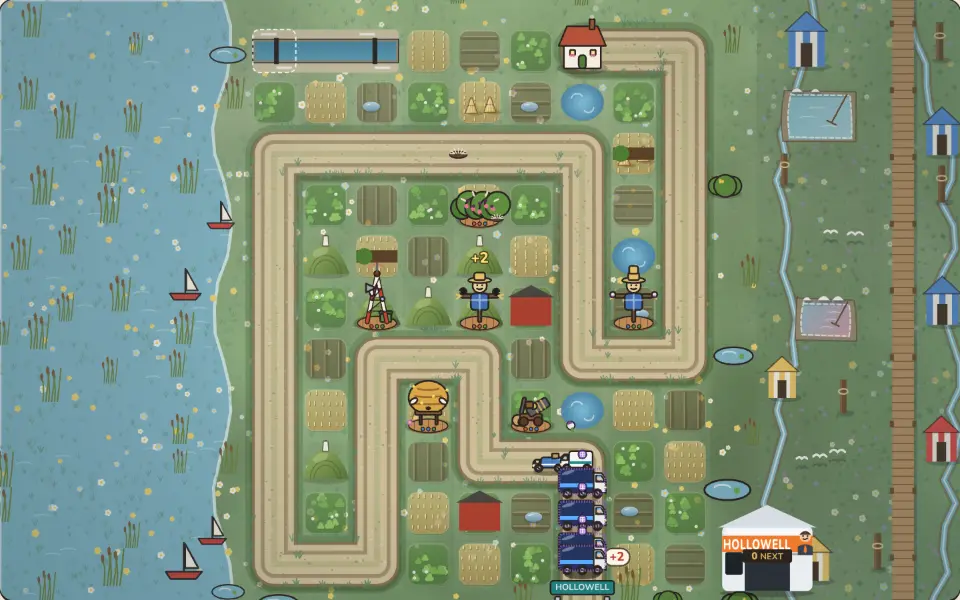
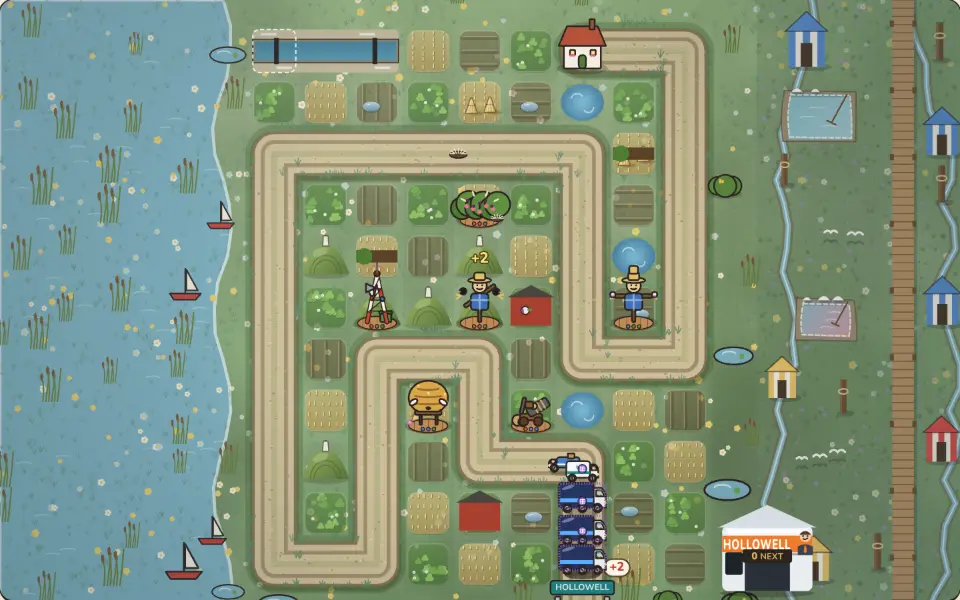
Hedgerow 2D: a falling van tips and spills its parcels (item 285 slice 1)
Claude-Session: https://claude.ai/code/session_01SimvMN1RHBGCWN7Eo7MzhN

diff --git a/games/hedgerow/src/render.ts b/games/hedgerow/src/render.ts
@@ -230,6 +230,11 @@ export class Renderer {
 
   constructor(private canvas: HTMLCanvasElement) {
     this.ctx = canvas.getContext("2d")!;
+    // Sandbox only: shot scripts stage a moment (plan item 285: a van tipping with its parcels) through this hook.
+    if (new URLSearchParams(location.search).has("sandbox"))
+      (window as unknown as { hedgerow2d: { tip(kind: EnemyKind, x: number, y: number): void } }).hedgerow2d = {
+        tip: (kind, x, y) => this.fallen.push({ kind, x, y, facing: 1, age: 0 }),
+      };
     // A shrinking ring or a pulse a frame past its end can ask for a hair under zero radius, which throws
     // (IndexSizeError) and drops the frame: clamp every arc and ellipse on this canvas (sprites.ts draws on it too).
     const arc = this.ctx.arc.bind(this.ctx);
@@ -847,6 +852,31 @@ export class Renderer {
           ctx.translate(-fx, -fy);
           drawEnemy(ctx, { kind: f.kind, facing: f.facing, hit: 9, ghost: false, phase: 0 }, fx, fy, s, 0);
           ctx.restore();
+          // Plan item 285: as it tips, its parcels spill out of the back and tumble across the lane (not under
+          // reduced motion: the tip alone tells it).
+          if (!this.reducedMotion) {
+            ctx.save();
+            ctx.globalAlpha = Math.max(0, Math.min(1, (0.7 - f.age) / 0.3));
+            const u = Math.min(1, f.age / 0.5);
+            for (let i = 0; i < 3; i++) {
+              const dir = -f.facing * (0.5 + i * 0.35);
+              const px = fx + dir * s * 0.7 * u;
+              const py = fy - s * 0.18 - Math.sin(u * Math.PI) * s * (0.22 + i * 0.07);
+              const b = s * (0.17 - i * 0.025);
+              ctx.save();
+              ctx.translate(px, py);
+              ctx.rotate(dir * u * 2.4);
+              ctx.fillStyle = "#c79a62";
+              ctx.strokeStyle = INK;
+              ctx.lineWidth = Math.max(1, s * 0.015);
+              ctx.fillRect(-b / 2, -b / 2, b, b * 0.8);
+              ctx.strokeRect(-b / 2, -b / 2, b, b * 0.8);
+              ctx.fillStyle = "#e6d3a6";
+              ctx.fillRect(-b * 0.08, -b / 2, b * 0.16, b * 0.8);
+              ctx.restore();
+            }
+            ctx.restore();
+          }
         },
       });
     }

diff --git a/docs/plan/two-week-plan.md b/docs/plan/two-week-plan.md
@@ -2822,7 +2822,7 @@ The items come from fresh-eyes audits on 2026-11-01 and 2026-11-02 (items 25-32:
 - **Accept:** at D her face 40 px+ tall at the default camera, eyes, liner and the raised right brow visible; a cheer on a wave clear (e2e hook); draw calls +30 or fewer; gate 1 holds; hedgerow 3D specs pass; shots P and D, 3D and `?2d`.
 - **Size:** 2
 
-## 285. [ ] Hedgerow 2D: the fleet as characterful, animated sprites *(lane B, in progress)*
+## 285. [ ] Hedgerow 2D: the fleet as characterful, animated sprites *(lane B, in progress)* *(slice 1, 2026-11-08 09:46 lane B: a van that falls tips and spills three parcels that tumble across the lane over 0.5 s (none under reduced motion); `window.hedgerow2d.tip(kind, x, y)` in the sandbox stages it. Checked, already there: a driver in the cab (item 256), a wheel bob, exhaust puffs, a hit flash and squash, vines on a slowed vehicle. Size: on a vertical lane, side-on sprites past 1x overhang the plots (item 266), so 44 px at D needs top-down sprites for up/down runs: left for a later slice. vehicles, gatequeue, depot, swarm, critique pass (55); key art re-shot; shots scratchpad tips2)*
 - **Why:** `plan1108b/hedge-l21-2d-D` (305-340 x 270-460): the Lifestyle influencers are ~30 px pink car glyphs; `hedge-l34-2d-D` (235-300 x 110-380): Box Lorries are flat blue boxes. In a Kingdom Rush-type game the enemies are stars; here they read as icons (item 280 covers only 3D).
 - **Build:** a drawn sprite per enemy type: a driver in the cab, a Hollowell livery, a bounce on the wheels and exhaust puffs; a hit flash, a slowed state (mud on the wheels), a defeat where the van tips and its parcels scatter; a health pip bar.
 - **Accept:** enemies 44 px+ long at D and 28 px+ at P; each type told apart in a greyscale shot; a unit test that every enemy id has a sprite; reduced motion no bounce; Hedgerow level tests and 2D specs pass; shots P and D, l21 and l34.
